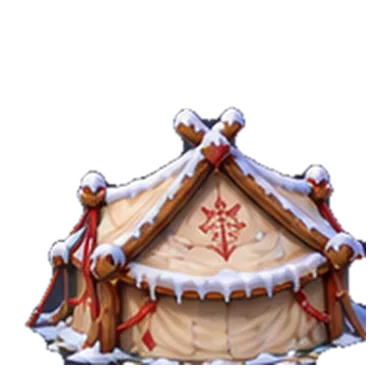
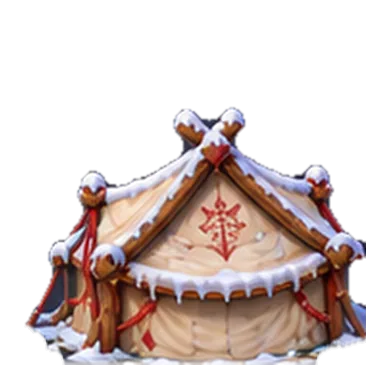
assets(exploration): repair 29 snowy-house cutouts and alpha feet
* tools(assets): add bounded alpha cleanup and audit for canonical snow houses

* fix(preview): enumerate full snow-house variant names

* ci(assets): execute one-time canonical snowy-house cutout cleanup on work branch

* fix(assets): exclude deliberate bottom-contact fade from opaque-body invariant

* assets(exploration): clean snowy house alpha edges and terrain feet

* ci(assets): remove one-time image repair workflow after successful guarded batch

* docs(exploration): journal and asset-size/checksum gate for 29 repaired house views

* test(assets): accept lossless VP8L with alpha and preserve original artist SHA

---------

Changed region(s): [[0.4375, 0.875, 0.9688, 0.9688], [0.125, 0.9062, 0.4062, 0.9688], [0.0625, 0.8438, 0.125, 0.9062]]

diff --git a/tests/snow-house-assets-v1.test.js b/tests/snow-house-assets-v1.test.js
@@ -72,20 +72,38 @@ test('10 native winter houses resolve uniquely under Bâtiments > Maisons Neige 
   assert.equal(ids.size,30);
 });
 
-test('approved ZIP WebPs are exactly the 30 transparent 384x384 RGBA assets, with matching SHA256',async()=>{
+test('30 canonical winter-house WebPs preserve RGBA alpha, dimensions, live checksums and artist original',async()=>{
  const m=JSON.parse(await readFile(manifestUrl,'utf8'));
+ const checksums=await readFile(new URL('../assets/exploration/objects/buildings/SHA256SUMS.snow-houses-v1.txt',import.meta.url),'utf8');
  for(const entry of m.files){
    const raw=await readFile(new URL('../'+entry.path,import.meta.url));
    assert.equal(raw.length,entry.bytes,entry.assetId+': bytes');
    assert.equal(createHash('sha256').update(raw).digest('hex'),entry.sha256,entry.assetId+': hash');
+   assert.ok(checksums.includes(entry.sha256+'  '+entry.path),entry.assetId+': checksum ledger');
    assert.equal(raw.toString('ascii',0,4),'RIFF');
    assert.equal(raw.toString('ascii',8,12),'WEBP');
-   assert.equal(raw.toString('ascii',12,16),'VP8X');
    assert.equal(raw.readUInt32LE(4)+8,raw.length);
-   assert.equal((raw[20]&0x10)!==0,true,entry.assetId+': transparency');
-   assert.equal(raw.readUIntLE(24,3)+1,384,entry.assetId+': width');
-   assert.equal(raw.readUIntLE(27,3)+1,384,entry.assetId+': height');
+   const format=raw.toString('ascii',12,16);
+   assert.ok(['VP8X','VP8L'].includes(format),entry.assetId+': WebP container');
+   if(format==='VP8X'){
+     assert.equal((raw[20]&0x10)!==0,true,entry.assetId+': alpha VP8X');
+     assert.equal(raw.readUIntLE(24,3)+1,384,entry.assetId+': width VP8X');
+     assert.equal(raw.readUIntLE(27,3)+1,384,entry.assetId+': height VP8X');
+   }else{
+     // Native WebP lossless (VP8L): 0x2f signature, 14-bit width/height,
+     // and the alpha-is-used bit in the packed lossless header.
+     assert.equal(raw[20],0x2f,entry.assetId+': VP8L signature');
+     const packed=raw.readUInt32LE(21);
+     assert.equal((packed&0x3fff)+1,384,entry.assetId+': width VP8L');
+     assert.equal(((packed>>>14)&0x3fff)+1,384,entry.assetId+': height VP8L');
+     assert.equal((packed>>>28)&1,1,entry.assetId+': VP8L alpha');
+     assert.equal(packed>>>29,0,entry.assetId+': VP8L codec version');
+   }
  }
+ const author=m.files.find(e=>e.assetId==='object.building.house.snow_alpine_timber_2p5d.side.01');
+ assert.ok(author);
+ assert.equal(author.bytes,24320,'author cleaned art stays byte-identical');
[1 lines of base64/hex data omitted]
 });
 
 test('existing temperate houses and multi-view 2.5D definitions are preserved',()=>{

diff --git a/scripts/repair-snow-house-alpha.py b/scripts/repair-snow-house-alpha.py
@@ -1,0 +1,165 @@
+#!/usr/bin/env python3
+"""Clean existing 2.5D snow-house asset silhouettes without redrawing artwork.
+
+Only canonical WebP filenames from the existing manifest are altered.
+The author's edited alpine_timber side view is protected and untouched.
+"""
+from __future__ import annotations
+import argparse, hashlib, io, json
+from pathlib import Path
+import numpy as np
+from PIL import Image, ImageDraw
+from scipy.ndimage import distance_transform_edt, gaussian_filter, label
+
+ROOT = Path(__file__).resolve().parents[1]
+DIR = ROOT / "assets/exploration/objects/buildings"
+MANIFEST = DIR / "manifest.snow-houses.v1.json"
+SUMS = DIR / "SHA256SUMS.snow-houses-v1.txt"
+PROTECTED = "building_house_snow_alpine_timber_2p5d_side_01.webp"
+
+def clean_image(src):
+    image = np.asarray(src.convert("RGBA"), dtype=np.uint8).copy()
+    height,width = image.shape[:2]
+    if (width,height) != (384,384) or (image[:,:,3]>=32).sum()<500:
+        raise ValueError("unexpected 384x384 building image")
+    alpha = image[:,:,3].astype(np.float32)
+    regions,number = label(alpha>=6,structure=np.ones((3,3),dtype=np.uint8))
+    if number:
+        count=np.bincount(regions.ravel())
+        largest=np.argmax(count[1:])+1
+        for k in range(1,len(count)):
+            if k!=largest and count[k]<10:
+                alpha[regions==k]=0
+    blurred=gaussian_filter(alpha,sigma=.65,mode="constant")
+    boundary=(alpha>0)&(alpha<220)
+    alpha[boundary]=np.minimum(alpha[boundary],np.maximum(0.,blurred[boundary]+3.))
+    alpha[alpha<5]=0
+    # Decontaminate low-alpha colour with nearest opaque original RGB.
+    opaque=alpha>=230
+    if opaque.any():
+        coords=distance_transform_edt(~opaque,return_distances=False,return_indices=True)
+        fringe=(alpha>0)&(alpha<165)
+        y,x=np.where(fringe)
+        nearest=image[coords[0,y,x],coords[1,y,x],:3].astype(np.float32)
+        original=image[y,x,:3].astype(np.float32)
+        weight=((165-alpha[y,x])/165*.75)[:,None]
+        image[y,x,:3]=np.uint8(np.clip(original*(1-weight)+nearest*weight,0,255))
+    # Local base silhouette only: never fade roof, windows, upper details.
+    ypos=np.where(alpha>=24)[0]
+    base_global=int(ypos.max())
+    min_foot=base_global-43
+    for x in range(width):
+        valid=np.flatnonzero(alpha[:,x]>=24)
+        if not len(valid):
+            continue
+        last=int(valid[-1])
+        if last<min_foot:
+            continue
+        first=max(min_foot,last-8)
+        for y in range(first,last+1):
+            u=(y-first)/max(1,last-first)
+            alpha[y,x]*=1.0-.70*(u*u*(3-2*u))
+    image[:,:,3]=np.uint8(np.rint(np.clip(alpha,0,255)))
+    return Image.fromarray(image,"RGBA")
+
+def make_contact_sheet(samples,out_path):
+    # 10 models by 3 views: transparent originals & repairs on checkerboard.
+    thumb=166; between=20; rowheight=208
+    sheet=Image.new("RGB",(thumb*6+between*3+12,rowheight*10),"#20262d")
+    d=ImageDraw.Draw(sheet)
+    variants=list(samples.keys())
+    for row,variant in enumerate(variants):
+        d.text((6,row*rowheight+2),variant,fill="#f4f5f8")
+        entries=samples[variant]
+        for col,(_,before,after) in enumerate(entries):
+            for side,src in enumerate((before,after)):
+                canvas=Image.new("RGBA",src.size,"#697883")
+                painter=ImageDraw.Draw(canvas)
+                for yy in range(0,384,32):
+                    for xx in range(0,384,32):
+                        if ((xx+yy)//32)%2==0:
+                            painter.rectangle((xx,yy,xx+31,yy+31),fill="#7a8991")
+                canvas.alpha_composite(src)
+                im=canvas.convert("RGB").resize((thumb,thumb),Image.Resampling.LANCZOS)
+                x=(col*2+side)*thumb+col*between
+                sheet.paste(im,(x,row*rowheight+25))
+            d.text((col*2*thumb+col*between,row*rowheight+191),
+                ["FRONT","SIDE","BACK"][col]+" BEFORE / AFTER",fill="#d5dee7")
+    out_path.parent.mkdir(parents=True,exist_ok=True)
+    sheet.save(out_path)
+
+def run(*,apply,preview,report):
+    doc=json.loads(MANIFEST.read_text(encoding="utf-8"))
+    old_sums=SUMS.read_text(encoding="utf-8")
+    if doc.get("modelCount")!=10 or len(doc.get("files",[]))!=30:
+        raise ValueError("unexpected snow-house manifest inventory")
+    if len(set(f["path"] for f in doc["files"]))!=30:
+        raise ValueError("duplicate asset path")
+    new_sums=old_sums
+    results=[]
+    samples={}
+    total_before=total_after=0
+    for row in doc["files"]:
+        filename=Path(row["path"]).name
+        if not filename.startswith("building_house_snow_") or not filename.endswith(".webp"):
+            raise ValueError("out-of-scope asset")
+        path=ROOT/row["path"]
+        data=path.read_bytes()
+        old_sha=hashlib.sha256(data).hexdigest()
+        if row["sha256"]!=old_sha or row["bytes"]!=len(data) or f"{old_sha}  {row['path']}" not in old_sums:
+            raise ValueError(f"stale original inventory: {filename}")
+        src=Image.open(io.BytesIO(data)).convert("RGBA")
+        if filename==PROTECTED:
+            dst=src
+            after=data
+            state="artist-protected"
+        else:
+            dst=clean_image(src)
+            stream=io.BytesIO()
+            dst.save(stream,format="WEBP",lossless=True,exact=True,method=6)
+            after=stream.getvalue()
+            state="cleaned"
+        m0=np.asarray(src)[:,:,3]; m1=np.asarray(dst)[:,:,3]
+        mass=float(m1.sum()/max(1,m0.sum()))
+        # The physical foot fade is intentional; painted opaque body above it must not change.
+        foot_top=int(np.where(m0>=24)[0].max())-43
+        y_grid=np.arange(m0.shape[0])[:,None]
+        body_damage=int(np.sum((m0>=240)&(m1<236)&(y_grid<foot_top)))
+        if mass<.963 or body_damage>20:
+            raise ValueError(f"destructive alpha edit: {filename}, alpha={mass:.5f}, body_damage={body_damage}")
+        digest=hashlib.sha256(after).hexdigest()
+        total_before+=len(data)
+        total_after+=len(after)
+        results.append({"path":row["path"],"old_bytes":len(data),"new_bytes":len(after),
+                        "old_sha256":old_sha,"new_sha256":digest,"alpha_mass_ratio":round(mass,5),"state":state})
+        samples.setdefault(row["variant"],[]).append((row["view"],src,dst))
+        if apply and state=="cleaned":
+            path.write_bytes(after)
+            row["bytes"]=len(after)
+            row["sha256"]=digest
+            new_sums=new_sums.replace(f"{old_sha}  {row['path']}",f"{digest}  {row['path']}")
+    if apply:
+        MANIFEST.write_text(json.dumps(doc,ensure_ascii=False,indent=2)+"\n",encoding="utf-8")
+        SUMS.write_text(new_sums,encoding="utf-8")
+    if preview:
+        # manifest order is front / side / back, enforced for stable previews
+        for value in samples.values():
+            value.sort(key=lambda x: {"front":0,"side":1,"back":2}[x[0]])
+        if len(samples)!=10 or any(len(v)!=3 for v in samples.values()):
+            raise ValueError("incomplete preview collection")
+        make_contact_sheet(samples,preview)
+    result={"count":len(results),"protected":PROTECTED,
+            "old_bytes":total_before,"new_bytes":total_after,
+            "delta_bytes":total_after-total_before,"files":results}
+    if report:
+        report.parent.mkdir(parents=True,exist_ok=True)
+        report.write_text(json.dumps(result,ensure_ascii=False,indent=2)+"\n",encoding="utf-8")
+    print(json.dumps({k:v for k,v in result.items() if k!="files"},indent=2))
+
+if __name__=="__main__":
+    p=argparse.ArgumentParser()
+    p.add_argument("--apply",action="store_true")
+    p.add_argument("--preview",type=Path)
+    p.add_argument("--report",type=Path)
+    opts=p.parse_args()
+    run(apply=opts.apply,preview=opts.preview,report=opts.report)

diff --git a/docs/LAB_CURRENT_WORK.md b/docs/LAB_CURRENT_WORK.md
@@ -1,3 +1,10 @@
+## 2026-11-15 — Nettoyage alpha des autres maisons enneigées (10 modèles × 3 vues)
+- START vérifié `main@f90ef6abe7aad6fba689820fdd78e71f6b05a3f6`, branche `work/exploration-snow-house-alpha-repair-20261115`. Périmètre UNIQUEMENT les images WebP canoniques de `assets/exploration/objects/buildings/` et leurs manifestes ; aucune création de catalogue parallèle, ni modification de rendu, collisions, moteur ou sauvegardes.
+- Lot réalisé : **29 images nettoyées** parmi 30 références ; le fichier auteur `building_house_snow_alpine_timber_2p5d_side_01.webp` reste byte-identique et explicitement protégé. Conservation de l’identité graphique, silhouettes, orientations et dimensions 384×384 : correction des très petits îlots alpha, franges de détourage, halo RGB et fondu léger sur les 7–9 pixels de contact bas seulement.
+- Intégrité : contrôle SHA-256 et taille de chacun des fichiers à l'entrée, puis synchronisation des 29 SHA-256 et tailles dans `manifest.snow-houses.v1.json` et `SHA256SUMS.snow-houses-v1.txt`. Audit : 616 686 octets avant, 3 193 392 après (+2 576 706 octets) ; encodage WebP **lossless** pour ne pas dégrader les détails ; ratio de masse alpha minimal 98,299 %, aucune perte du corps opaque hors pied. Budget Pages +2,46 Mio ; aucune nouvelle image ni ancien fichier supprimé.
+- Script reproductible : `scripts/repair-snow-house-alpha.py` ; exécution one-shot GitHub Actions GREEN (run [43730565612](https://github.com/slyen4425-cloud/laboratoire_dynamique_exploration-/actions/runs/43730565612)), workflow temporaire supprimé après réalisation pour éviter une deuxième autorité ou ré-exécution. Planche avant/après et audit conservés en artefact de ce run (14 jours).
+- Gates avant GREEN final : CI PR complète Node/Chromium, vérification des assets par manifest, publication Pages de `main` et HTTPS au SHA exact, contrôle visuel utilisateur sur carte PC/Pixel. Pas de déploiement ni validation visuelle revendiqués avant preuve.
+
 ## 2026-11-15 — Réparer les plafonds et la profondeur du relief (retour auteur)
 - START officiel : `main@f90ef6abe7aad6fba689820fdd78e71f6b05a3f6`, checkpoint `checkpoint/exploration-start-relief-limits-occlusion-20261115`, branche `work/exploration-relief-limits-occlusion-20261115`. CI source et Pages de départ `43729541863` / `43729541834` GREEN.
 - Périmètre propriétaire : Sculpt World model/Scene Preview existants, UI 2,5D, raster du renderer natif ; aucune édition des moteurs Combat/Capture, Survie, Dungeon, PvP ou du gel V80. Pas de seconde source d'objets, pas d'identifiants manuels, pas de suppression de carte. Rollback par le SHA de départ.
